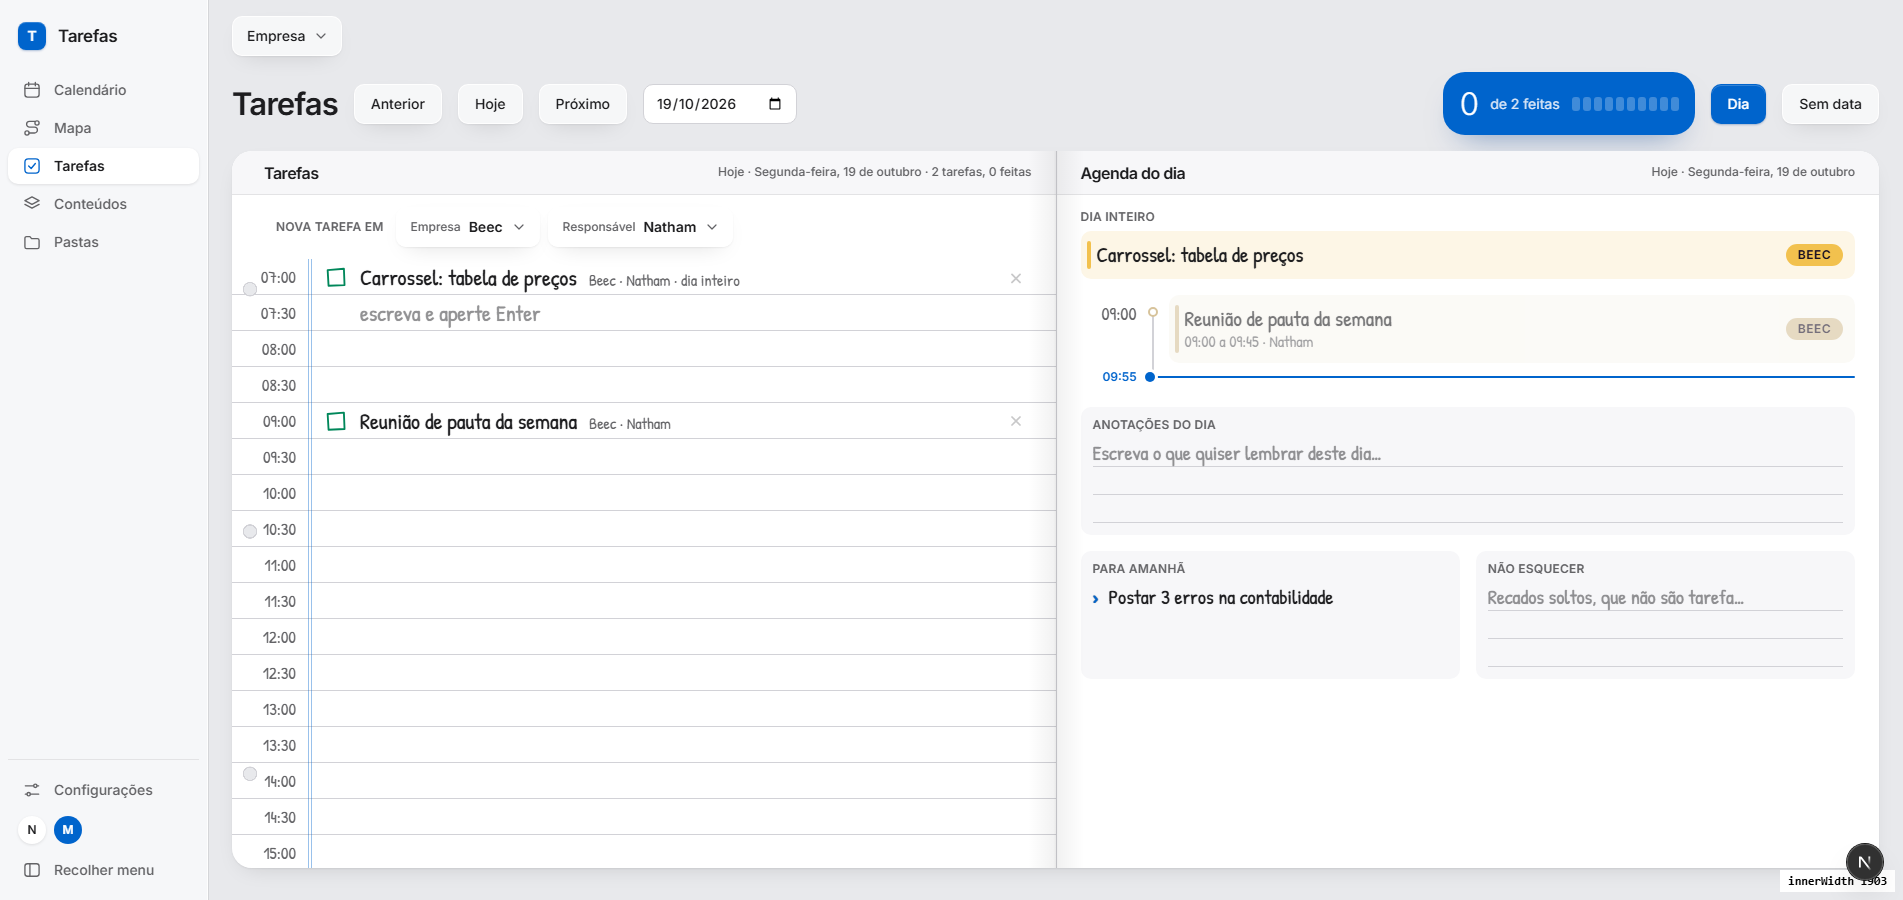
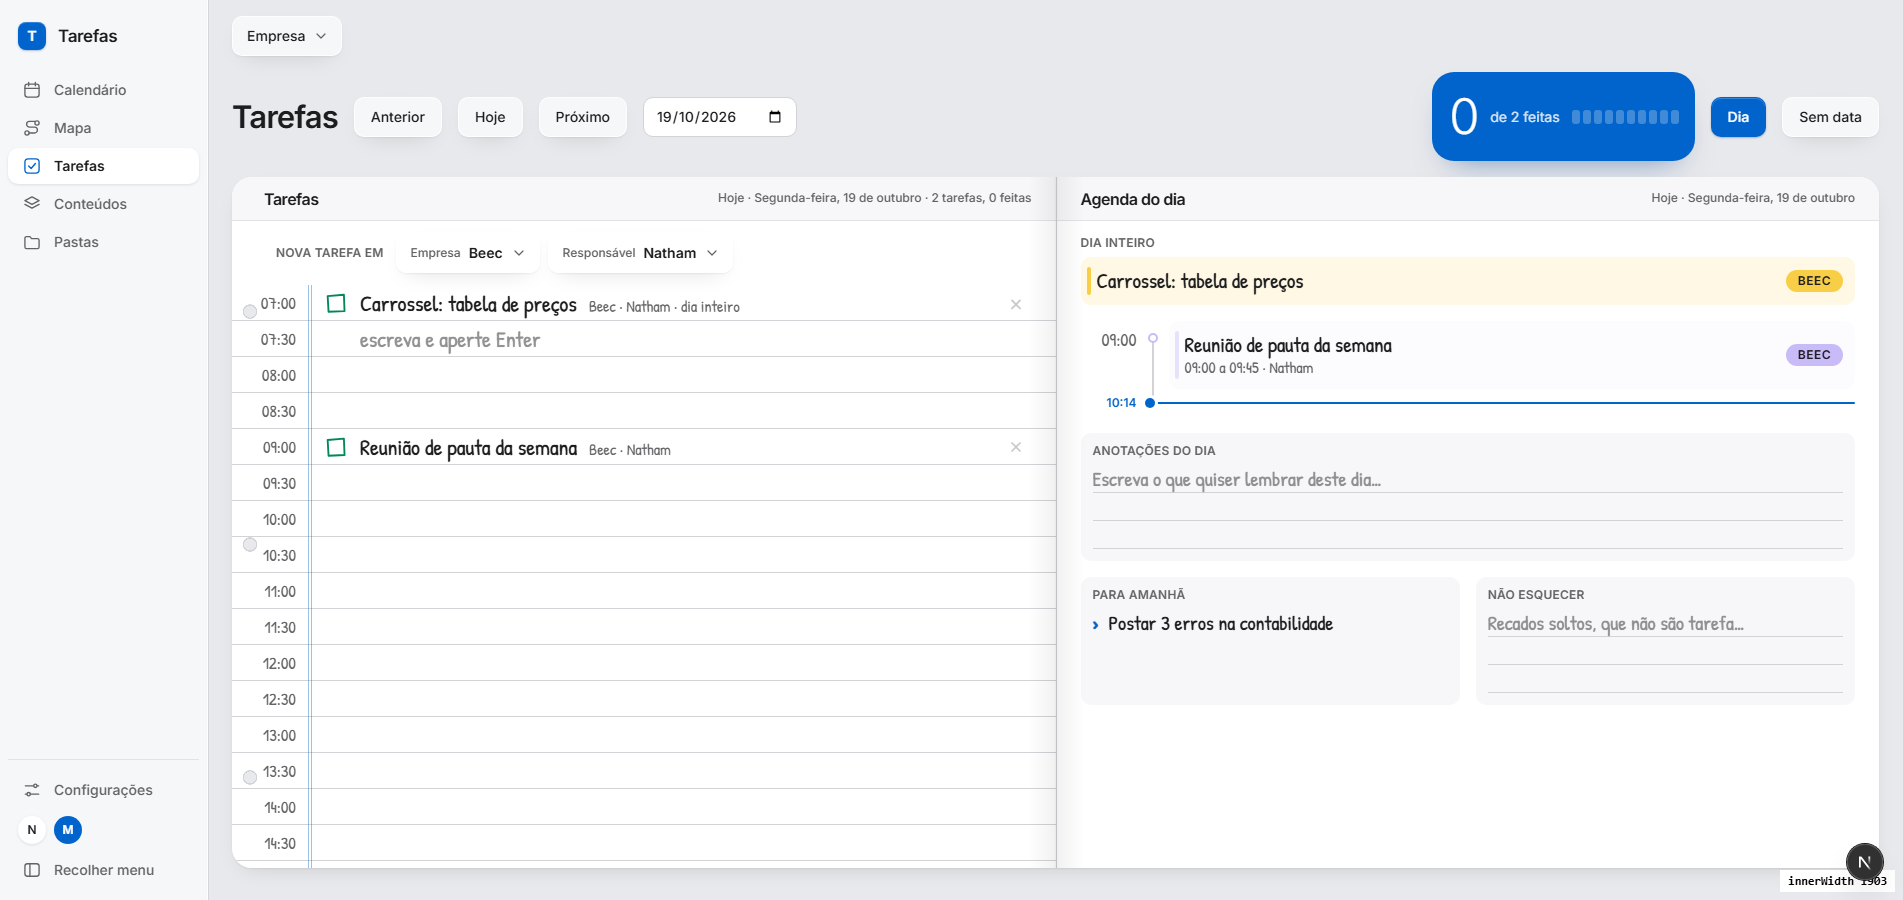
Tarefas: nota segue o dia, Hoje vira a meia-noite, passado sem perder contraste, numero do bloco da base (revisao Regua 1, 3, 4, 10)

diff --git a/src/components/tarefas/TelaTarefas.tsx b/src/components/tarefas/TelaTarefas.tsx
@@ -8,7 +8,7 @@ import { Ficha } from "@/components/ficha/Ficha";
 import { Agenda } from "./Agenda";
 import { Folha, type LinhaFolha } from "./Folha";
 import { copiar, virarFolha } from "./virar";
-import { horaDe, horaDoSlot, montarGrade, rotuloSlot, SLOTS, somarMinutos } from "./grade";
+import { horaDe, horaDoSlot, montarGrade, msAteMeiaNoite, rotuloSlot, SLOTS, somarMinutos } from "./grade";
 import { LETRA_PRINCIPAL } from "./fontes";
 import "./caderno.css";
 
@@ -18,13 +18,21 @@ const paraData = (dia: string) => new Date(+dia.slice(0, 4), +dia.slice(5, 7) - 
 const somarDias = (dia: string, n: number) => { const d = paraData(dia); d.setDate(d.getDate() + n); return iso(d); };
 // "" no servidor: o dia de hoje só existe no navegador de quem abre (evita diferença de fuso na hidratação).
 const hojeLocal = () => iso(new Date());
-const semAssinatura = () => () => {};
+// Avisa a tela quando vira a meia-noite (e ao voltar do repouso), para "Hoje" acompanhar o relógio.
+const virouODia = (avisar: () => void) => {
+  let t: ReturnType<typeof setTimeout>;
+  const agendar = () => { t = setTimeout(() => { avisar(); agendar(); }, msAteMeiaNoite(new Date())); };
+  const voltou = () => { if (!document.hidden) avisar(); };
+  agendar();
+  document.addEventListener("visibilitychange", voltou);
+  return () => { clearTimeout(t); document.removeEventListener("visibilitychange", voltou); };
+};
 
 const NOMES = { natham: "Natham", matheus: "Matheus" } as const;
 const extenso = (dia: string) => paraData(dia).toLocaleDateString("pt-BR", { weekday: "long", day: "numeric", month: "long" }).replace(/^./, (c) => c.toUpperCase());
 
 export function TelaTarefas() {
-  const hoje = useSyncExternalStore(semAssinatura, hojeLocal, () => "");
+  const hoje = useSyncExternalStore(virouODia, hojeLocal, () => "");
   const [escolhido, setEscolhido] = useState<string | null>(null);
   const [aba, setAba] = useState<"dia" | "semdata">("dia");
   const [lado, setLado] = useState<"tarefas" | "agenda">("tarefas"); // só no celular: uma página por vez

diff --git a/src/components/tarefas/grade.test.ts b/src/components/tarefas/grade.test.ts
@@ -1,6 +1,7 @@
 import { describe, expect, it } from "vitest";
 import type { Tarefa } from "@/lib/dados";
-import { montarGrade, rotuloSlot, SLOTS } from "./grade";
+import { montarGrade, msAteMeiaNoite, rotuloSlot, SLOTS } from "./grade";
+import { notaDaChave } from "./notas";
 
 const t = (id: string, inicio?: string, diaInteiro = false) =>
   ({ id, titulo: id, tipo: "outro", empresaId: "e", responsavel: "natham", inicio, diaInteiro, cor: "etiqueta-1", links: [], arquivos: [] }) as Tarefa;
@@ -22,5 +23,25 @@ describe("grade do caderno", () => {
   it("sem porHora ignora o horário e mantém a ordem", () => {
     const g = montarGrade([t("a", "2026-10-20T20:00"), t("b")], false);
     expect([g[0]?.id, g[1]?.id]).toEqual(["a", "b"]);
+  });
+});
+
+describe("anotações do dia", () => {
+  const armazem = { getItem: (k: string) => ({ "d:20": "nota do 20", "d:21": "nota do 21" } as Record<string, string>)[k] ?? null, setItem: () => {} };
+  it("trocar de dia mostra a nota do dia novo, não a do anterior", () => {
+    const dia20 = notaDaChave(null, "d:20", armazem);
+    expect(dia20.valor).toBe("nota do 20");
+    expect(notaDaChave(dia20, "d:21", armazem).valor).toBe("nota do 21");
+    expect(notaDaChave(dia20, "d:22", armazem).valor).toBe("");
+  });
+  it("mesma chave mantém o que está sendo digitado", () => {
+    expect(notaDaChave({ chave: "d:20", valor: "digitando" }, "d:20", armazem).valor).toBe("digitando");
+  });
+});
+
+describe("virada da meia-noite", () => {
+  it("conta até a próxima meia-noite local", () => {
+    expect(msAteMeiaNoite(new Date(2026, 9, 19, 23, 59, 0))).toBe(60_500);
+    expect(msAteMeiaNoite(new Date(2026, 9, 19, 0, 0, 0))).toBe(86_400_500);
   });
 });

diff --git a/src/components/tarefas/caderno.css b/src/components/tarefas/caderno.css
@@ -26,7 +26,6 @@
 .tarefas-data:focus-visible { outline: 3px solid var(--foco); outline-offset: 1px; }
 /* Bloco de destaque da tela: quantas tarefas feitas (número grande sobre o azul) */
 .tarefas-contador { display: flex; align-items: center; gap: var(--s-12); margin: 0; font-size: var(--app-t-texto); white-space: nowrap; }
-.tarefas-contador .bloco-numero { margin: 0; font-size: var(--t-31); }
 .medidor { display: flex; gap: 3px; }
 .medidor i { width: 8px; height: 14px; border-radius: 3px; background: linear-gradient(to right, var(--no-azul) var(--p), rgb(255 255 255 / 0.25) var(--p)); }
 
@@ -153,7 +152,9 @@
 .ag-bloco-titulo { font: 600 var(--app-t-rotulo) / 1 var(--fonte); letter-spacing: .02em; text-transform: uppercase; color: var(--fraco); }
 .ag-lista { list-style: none; margin: 0 0 var(--s-24); padding: 0; }
 .ag-item { display: grid; grid-template-columns: var(--col-hora) 16px minmax(0, 1fr); column-gap: var(--s-8); align-items: start; }
-.ag-item[data-passou="true"] .ag-card { opacity: .6; }
+/* compromisso passado: esmaece só o fundo e o risco; o texto fica inteiro (contraste mínimo 4,5) */
+.ag-item[data-passou="true"] .ag-card { background: color-mix(in srgb, var(--etq) 5%, var(--sup)); }
+.ag-item[data-passou="true"] .ag-card::before { opacity: .4; }
 .ag-hora { padding-top: var(--s-8); text-align: right; font-size: calc(18px * var(--escala)); line-height: 1.2; }
 .ag-trilho { position: relative; align-self: stretch; }
 .ag-trilho::before { content: ""; position: absolute; left: 7px; top: 0; bottom: 0; width: 2px; background: var(--borda); border-radius: 1px; } /* fio fino ligando as tarefas */

diff --git a/src/components/tarefas/Agenda.tsx b/src/components/tarefas/Agenda.tsx
@@ -3,6 +3,7 @@ import { Fragment, useEffect, useState, type CSSProperties } from "react";
 import type { Tarefa } from "@/lib/dados";
 import type { OpcaoLetra } from "./fontes";
 import { horaDe, minutos, somarMinutos } from "./grade";
+import { notaDaChave, type Armazem, type EstadoNota } from "./notas";
 import "./caderno.css";
 
 type Props = {
@@ -22,11 +23,12 @@ type Props = {
 
 const dois = (n: number) => String(n).padStart(2, "0");
 
-// Anotação solta do dia: fica só neste navegador (a Fase 2 leva para o banco).
+const armazem = (): Armazem => { try { return localStorage; } catch { return { getItem: () => null, setItem: () => {} }; } };
 function useNota(chave: string) {
-  const [valor, setValor] = useState(() => { try { return localStorage.getItem(chave) ?? ""; } catch { return ""; } });
-  const mudar = (v: string) => { setValor(v); try { localStorage.setItem(chave, v); } catch {} };
-  return [valor, mudar] as const;
+  const [estado, setEstado] = useState<EstadoNota | null>(null);
+  const atual = notaDaChave(estado, chave, armazem()); // trocou o dia: lê a nota do dia novo, nunca mostra a do anterior
+  const mudar = (valor: string) => { setEstado({ chave, valor }); try { localStorage.setItem(chave, valor); } catch {} };
+  return [atual.valor, mudar] as const;
 }
 
 export function Agenda({ letra, dia, hoje, rotuloDia, tarefas, amanha, nomeEmpresa, aoAbrir }: Props) {

diff --git a/src/components/tarefas/notas.ts b/src/components/tarefas/notas.ts
@@ -1,0 +1,11 @@
+// Anotação solta do dia: fica só neste navegador. A nota mostrada segue SEMPRE a chave do dia aberto.
+export type Armazem = Pick<Storage, "getItem" | "setItem">;
+export type EstadoNota = { chave: string; valor: string };
+
+export const lerNota = (chave: string, armazem: Armazem): string => {
+  try { return armazem.getItem(chave) ?? ""; } catch { return ""; }
+};
+
+/** O estado vale só para a chave em que foi escrito; outra chave (outro dia) lê a nota dela do armazém. */
+export const notaDaChave = (atual: EstadoNota | null, chave: string, armazem: Armazem): EstadoNota =>
+  atual && atual.chave === chave ? atual : { chave, valor: lerNota(chave, armazem) };

diff --git a/src/components/tarefas/grade.ts b/src/components/tarefas/grade.ts
@@ -37,3 +37,7 @@ export function montarGrade(tarefas: Tarefa[], porHora: boolean): (Tarefa | null
   }
   return Array.from({ length: Math.max(SLOTS, linhas.length + 1) }, (_, k) => linhas[k] ?? null);
 }
+
+/** Milissegundos até a próxima meia-noite local (mais 500 de folga para o relógio já ter virado). */
+export const msAteMeiaNoite = (agora: Date): number =>
+  new Date(agora.getFullYear(), agora.getMonth(), agora.getDate() + 1).getTime() - agora.getTime() + 500;
